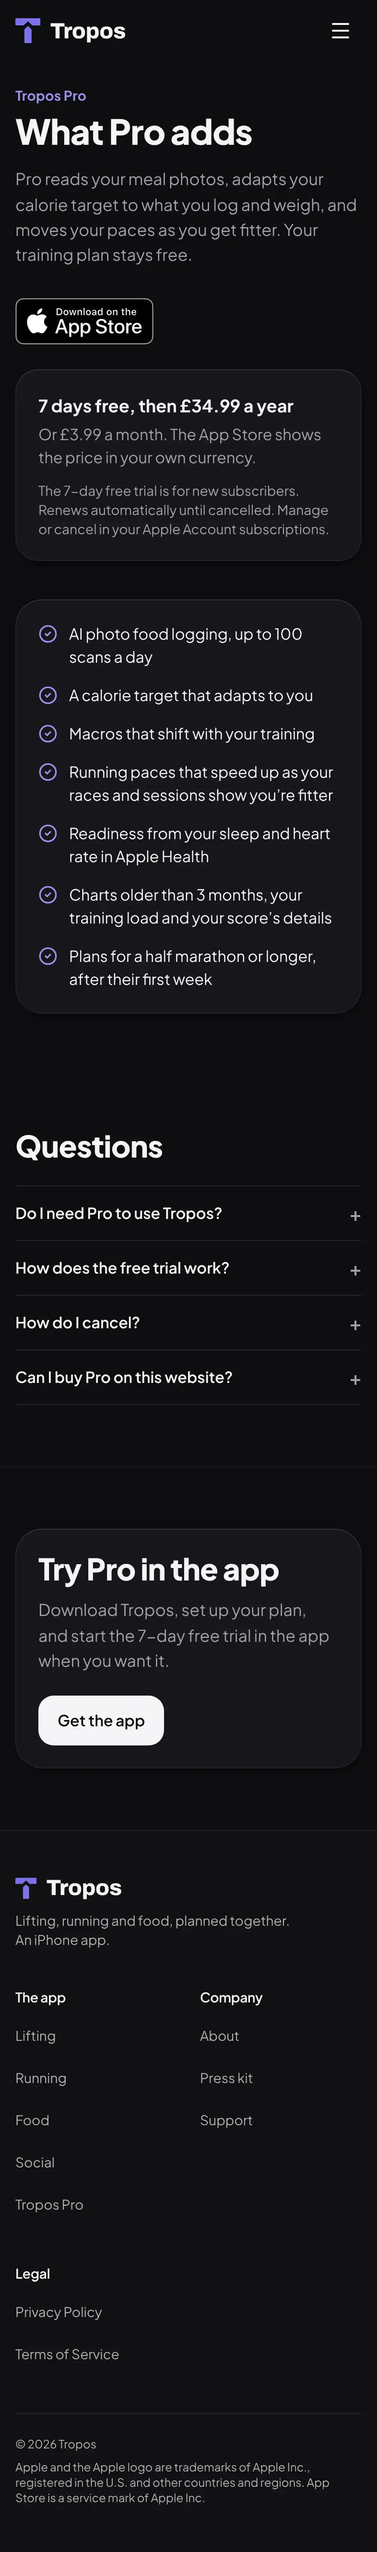
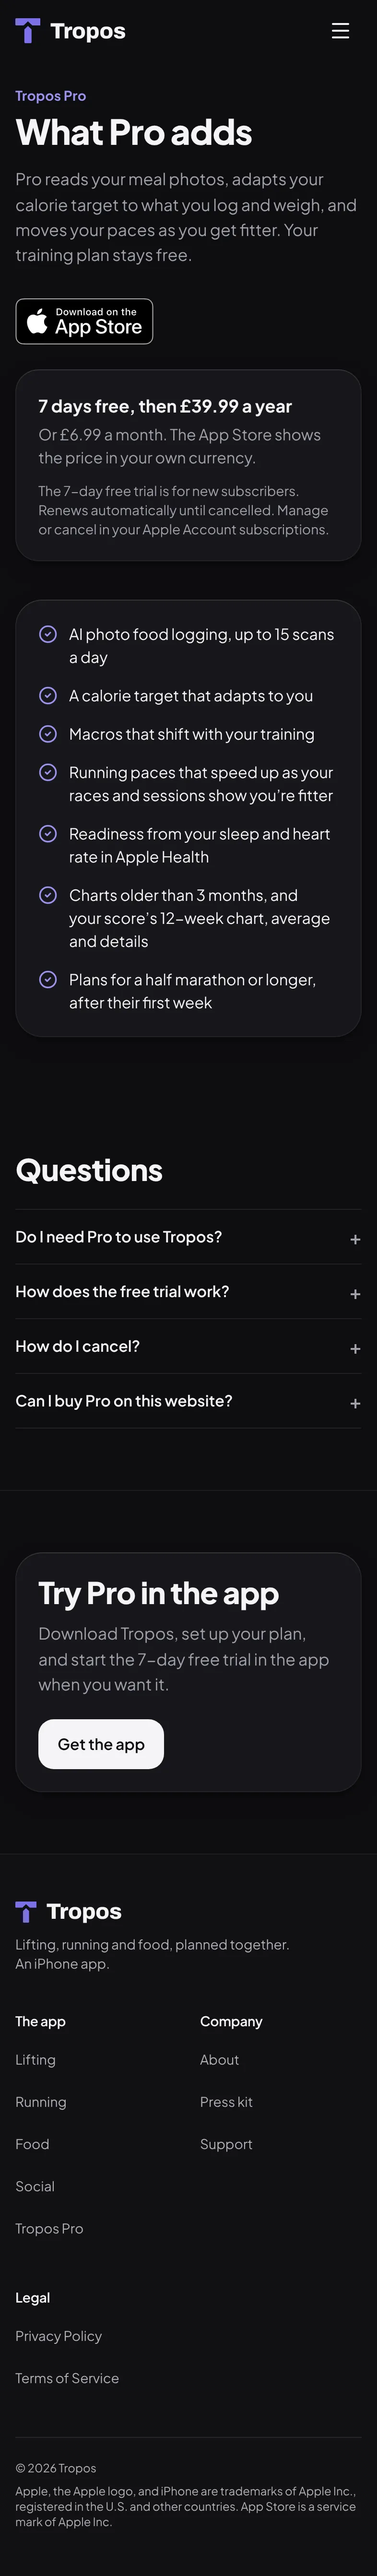
Website design: Pro's prices as #3432 set them
design.md's Pro section and claims table named £3.99 a month and £34.99
a year; #3432 made them £6.99 and £39.99. The site's Pro page already
shows the new prices (it reads proPlans.ts); the doc and the Pro page's
captures now match it.

Claude-Session: https://claude.ai/code/session_01WVMy99c2FFJSKRJJrsfJch

diff --git a/docs/website/design.md b/docs/website/design.md
@@ -139,8 +139,8 @@ words rather than promise a busy league to the first hundred people.
 ### Pro
 
 "What Pro adds", with the Pro page's own list (`PRO_INCLUDES`, seven lines),
-the free line (`FREE_KEEPS`) and the price card: "7 days free, then £34.99 a
-year", "Or £3.99 a month. The App Store shows the price in your own
+the free line (`FREE_KEEPS`) and the price card: "7 days free, then £39.99 a
+year", "Or £6.99 a month. The App Store shows the price in your own
 currency.", and the renewal terms the iPhone paywall shows. Every figure is
 read from `proPlans.ts`, so the site cannot drift from the app. Four
 questions, answered from the same sources: do I need Pro, how the trial
@@ -269,13 +269,13 @@ Where each claim comes from:
 | Half marathon and longer are Pro after the first week; 5K and 10K free                                                                                                                                        | `FREE_KEEPS`, `PRO_INCLUDES`                                             |
 | Privacy zones; segments against the people you follow                                                                                                                                                         | `privacyZones.ts`; Run26 call 3                                          |
 | The calorie target's inputs; typing, search, barcode; usual breakfast in one tap; water and weight trend                                                                                                      | App Store listing, Food                                                  |
-| Photo logging, 15 scans a day; asked before sending; read by Google's Gemini; kept on the phone                                                                                                              | `PRO_INCLUDES`, `DAILY_AI_LIMITS`, Food9, `aiConsent.ts`, Privacy Policy |
+| Photo logging, 15 scans a day; asked before sending; read by Google's Gemini; kept on the phone                                                                                                               | `PRO_INCLUDES`, `DAILY_AI_LIMITS`, Food9, `aiConsent.ts`, Privacy Policy |
 | Circles of up to 8; meet-ups, weekly repeats, pace groups, the reminder about a day before                                                                                                                    | `GOAL_SPACE_MAX_MEMBERS`; Run26 call 4; Run27 call 10                    |
 | Weekly, monthly and seasonal challenges; medals and the trophy case                                                                                                                                           | App Store listing; Soc15                                                 |
 | The league: opt-in, about 20, points out of 100 for your plan, five tiers                                                                                                                                     | Soc15 call 3, `leagueRules.ts`                                           |
 | The league starts once 10 people have joined it                                                                                                                                                               | App1 Q6 (18 Nov), `league.ts`                                            |
 | Approve followers; followers or everyone; block and report                                                                                                                                                    | Polish2; `shareComposer.ts`; S4                                          |
-| Pro's list, what stays free, £3.99 a month, £34.99 a year, the 7-day trial, renewal terms                                                                                                                     | `proIncludesCopy.ts`, `proPlans.ts`                                      |
+| Pro's list, what stays free, £6.99 a month, £39.99 a year (#3432), the 7-day trial, renewal terms                                                                                                             | `proIncludesCopy.ts`, `proPlans.ts`                                      |
 | No adverts, data not sold                                                                                                                                                                                     | Privacy Policy                                                           |
 | A planned rest day keeps the streak                                                                                                                                                                           | App1 Q32, `restDays.ts`                                                  |
 | iOS 15.4 or later                                                                                                                                                                                             | `IPHONEOS_DEPLOYMENT_TARGET`                                             |
